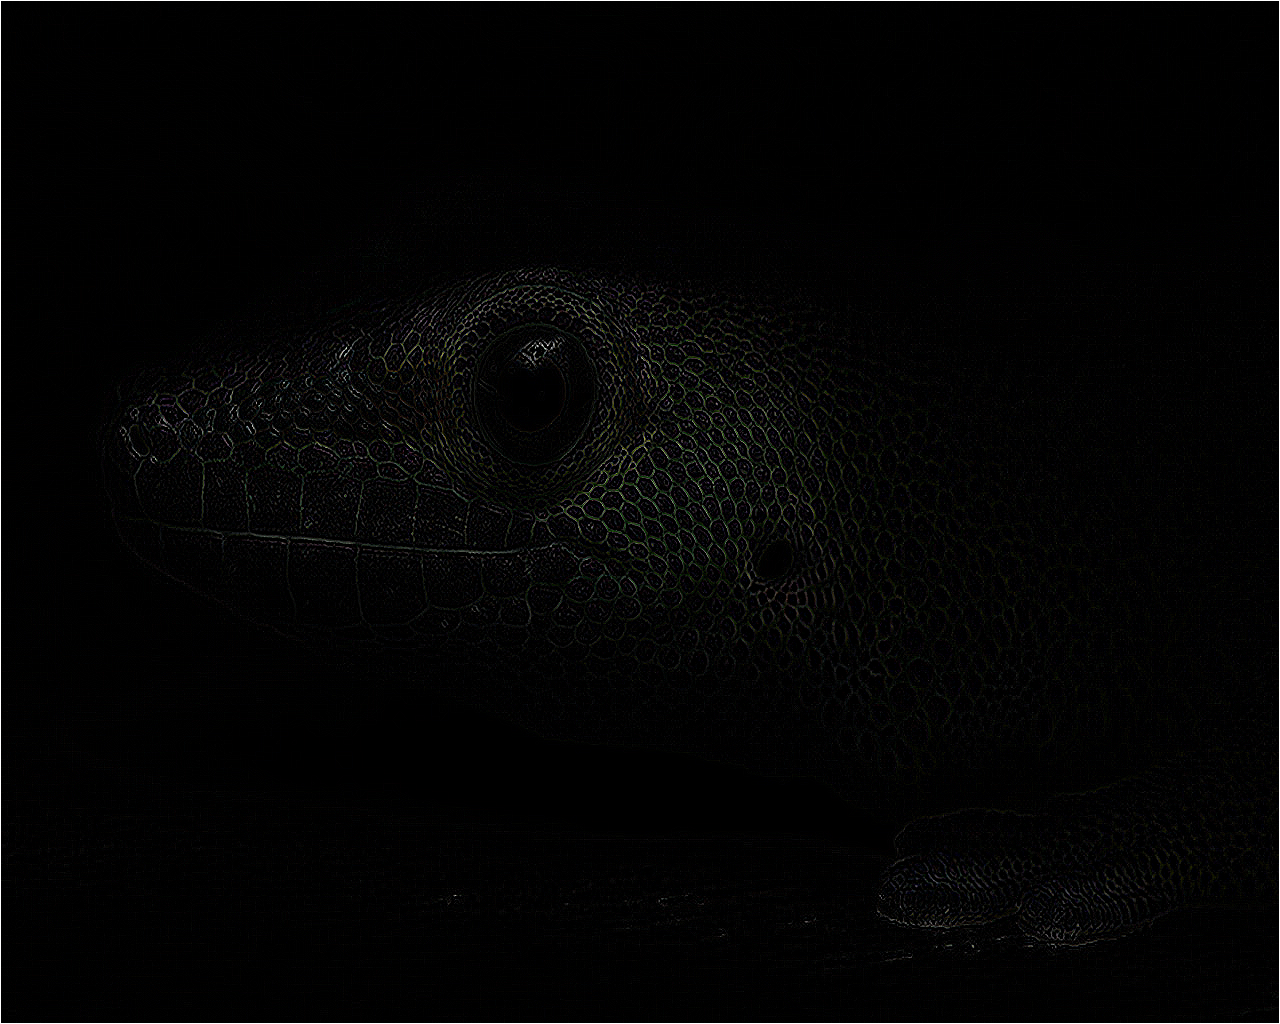
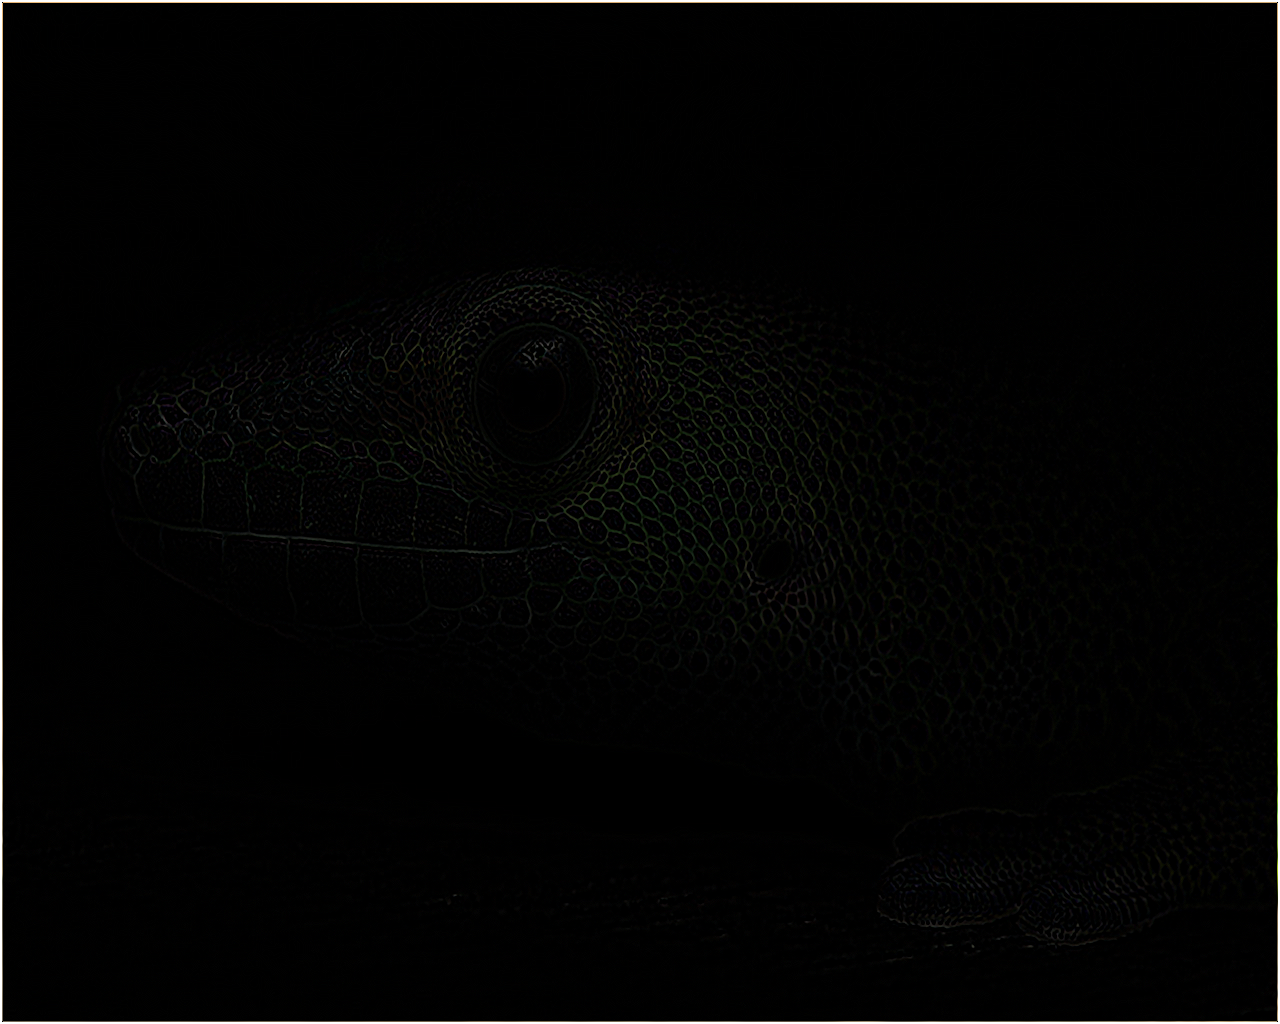
Multiple convolutions

diff --git a/src/main.rs b/src/main.rs
@@ -1,7 +1,7 @@
 mod cl_util;
 
 use ocl::{
-    Platform, Device, Context, Queue, Program, Kernel,
+    Platform, Device, Context, Queue, Program, Kernel, OclPrm,
     enums::{ImageChannelOrder, ImageChannelDataType, MemObjectType},
     flags::MemFlags,
 };
@@ -13,7 +13,7 @@ use cl_util::*;
 
 fn main() {
     let (_plat, _dev, _ctx, queue, prog) = setup_env();
-    let im =
+    let mut im =
         ImageReader::open("gecko.jpg").expect("failed to open image")
             .decode().expect("failed to decode image")
             .into_rgba8();
@@ -21,8 +21,8 @@ fn main() {
     let im_cl = ocl::Image::<u8>::builder()
         .queue(queue.clone())
         .flags(
-            MemFlags::READ_ONLY |
-            MemFlags::HOST_NO_ACCESS |
+            MemFlags::READ_WRITE |
+            MemFlags::HOST_READ_ONLY |
             MemFlags::COPY_HOST_PTR
         )
         .copy_host_slice(&im)
@@ -32,14 +32,11 @@ fn main() {
         .dims(im_dims)
         .build().expect("failed to build input cl image");
     
-    // TODO the fact that this uses uint8 data might be a problem, since some
-    // correlation kernels will output floats outside the interval [0., 1.]
-    let mut out = RgbaImage::new(im_dims.0, im_dims.1);
-    let out_cl = ocl::Image::<u8>::builder()
+    let intermediate_cl = ocl::Image::<u8>::builder()
         .queue(queue.clone())
         .flags(
-            MemFlags::WRITE_ONLY |
-            MemFlags::HOST_READ_ONLY
+            MemFlags::READ_WRITE |
+            MemFlags::HOST_NO_ACCESS
         )
         .channel_order(ImageChannelOrder::Rgba)
         .channel_data_type(ImageChannelDataType::UnormInt8)
@@ -47,43 +44,40 @@ fn main() {
         .dims(im_dims)
         .build().expect("failed to build output cl image");
     
-    let kdims = [3u32, 3];
-    let corr_kernel = [
+    let gaus_dims = [7u32, 7];
+    let gaus_matrix = [ // sigma = 1
+        0.0000, 0.0002, 0.0011, 0.0018, 0.0011, 0.0002, 0.0000,
+        0.0002, 0.0029, 0.0131, 0.0216, 0.0131, 0.0029, 0.0002,
+        0.0011, 0.0131, 0.0586, 0.0966, 0.0586, 0.0131, 0.0011,
+        0.0018, 0.0216, 0.0966, 0.1592, 0.0966, 0.0216, 0.0018,
+        0.0011, 0.0131, 0.0586, 0.0966, 0.0586, 0.0131, 0.0011,
+        0.0002, 0.0029, 0.0131, 0.0216, 0.0131, 0.0029, 0.0002,
+        0.0000, 0.0002, 0.0011, 0.0018, 0.0011, 0.0002, 0.0000,
+    ];
+    let gaus_kernel = correlation_kernel(
+        &im_cl, &intermediate_cl, &gaus_matrix, &gaus_dims, &prog, queue.clone()
+    );
+    
+    let lap_dims = [3u32, 3];
+    let lap_matrix = [
         0f32,  1., 0.,
         1.,   -4., 1.,
         0.,    1., 0.,
     ];
-    let half_ksize = [kdims[0] / 2, kdims[1] / 2]; // int division
-    let corr_kernel_cl = ocl::Image::<f32>::builder()
-        .queue(queue.clone())
-        .flags(
-            MemFlags::READ_ONLY |
-            MemFlags::HOST_NO_ACCESS |
-            MemFlags::COPY_HOST_PTR
-        )
-        .copy_host_slice(&corr_kernel)
-        .channel_order(ImageChannelOrder::Luminance)
-        .channel_data_type(ImageChannelDataType::Float)
-        .image_type(MemObjectType::Image2d)
-        .dims(kdims)
-        .build().expect("failed to build cl correlation kernel");
 
-    let kernel = Kernel::builder()
-        .program(&prog)
-        .name("correlate2d")
-        .queue(queue.clone())
-        .arg(&im_cl).arg(&out_cl)
-        .arg(&corr_kernel_cl).arg(half_ksize[0]).arg(half_ksize[1])
-        .build().expect("failed to build kernel");
-    // no need to copy to input cl images here: they have `COPY_HOST_PTR` set
+    let lap_kernel = correlation_kernel(
+        &intermediate_cl, &im_cl, &lap_matrix, &lap_dims, &prog, queue.clone()
+    );
     unsafe {
-        kernel.cmd().global_work_size(&im_dims)
+        gaus_kernel.cmd().global_work_size(&im_dims)
+            .enq().expect("failed to enqueue kernel");
+        lap_kernel.cmd().global_work_size(&im_dims)
             .enq().expect("failed to enqueue kernel");
     }
 
     // `read` is blocking by default
-    out_cl.read(&mut out).enq().expect("failed to read output cl image");
-    out.save("out.png").expect("failed to write output image to disk");
+    im_cl.read(&mut im).enq().expect("failed to read output cl image");
+    im.save("out.png").expect("failed to write output image to disk");
 }
 
 fn setup_env() -> (Platform, Device, Context, Queue, Program) {
@@ -109,4 +103,45 @@ fn setup_env() -> (Platform, Device, Context, Queue, Program) {
         .build(&ctx).expect("failed to build program");
     
     (plat, dev, ctx, queue, prog)
+}
+
+fn correlation_kernel<T: OclPrm> (
+    in_cl_image: &ocl::Image<T>, out_cl_image: &ocl::Image<T>,
+    matrix_vals: &[f32], matrix_dims: &[u32; 2], // TODO impl Integer?
+    prog: &Program, queue: Queue,
+) -> Kernel {
+    if (matrix_dims[0] % 2 != 1) || (matrix_dims[1] % 2 != 1) {
+        panic!("correlation kernel dimensions must be odd");
+    }
+    if matrix_vals.len() as u32 != matrix_dims[0] * matrix_dims[1] {
+        panic!("number of elements in array does not match dimensions");
+    }
+
+    // int division is intentional
+    let half_size_x = matrix_dims[0] / 2;
+    let half_size_y = matrix_dims[1] / 2;
+
+    let matrix_cl = ocl::Image::<f32>::builder()
+        .queue(queue.clone())
+        .flags(
+            MemFlags::READ_ONLY | 
+            MemFlags::HOST_NO_ACCESS | 
+            MemFlags::COPY_HOST_PTR
+        )
+        .copy_host_slice(&matrix_vals)
+        .channel_order(ImageChannelOrder::Luminance)
+        .channel_data_type(ImageChannelDataType::Float)
+        .image_type(MemObjectType::Image2d)
+        .dims(matrix_dims)
+        .build().expect("failed to create correlation matrix on device");
+
+    Kernel::builder()
+        .program(&prog)
+        .name("correlate2d")
+        .queue(queue.clone())
+        .arg(in_cl_image).arg(out_cl_image)
+        // TODO we have a reference to a local variable... will `matrix_cl`
+        // survive on the gpu after this function returns?
+        .arg(&matrix_cl).arg(half_size_x).arg(half_size_y)
+        .build().expect("failed to build kernel")
 }
